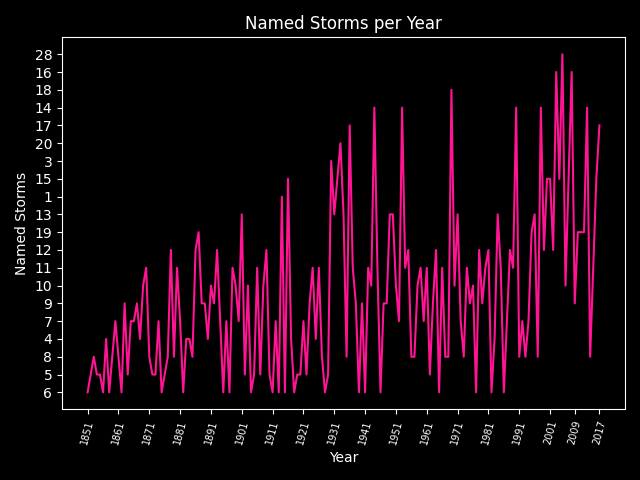
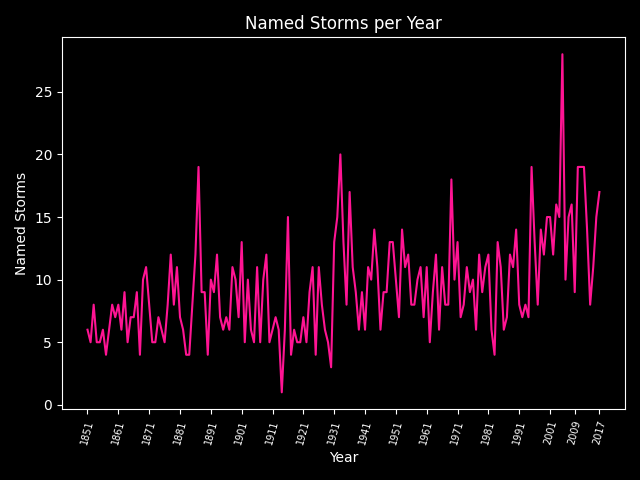
update from strings to integers! :)

diff --git a/hurricanes.py b/hurricanes.py
@@ -39,7 +39,9 @@ class StormData:
         #define attributes
         headers = []
         # self.data = []
-        self.dictData = {} #should i have it as a dictionary? or a list? then i can utilize the class data similar to autompg.
+        self.dictData = {}
+        # self.dictHurr = {}
+        # self.dictMaj = {}
         # define algorithm for correct data pull
         singles = [0, 1, 2, 3, 4, 5, 6, 7, 8, 9, 10, 11, 12, 13, 14, 15, 16, 17, 20, 21, 22, 23, 24, 25, 26, 28, 30, 31, 32, 33, 34, 37, 38, 39, 41, 43, 44, 45, 46, 49, 51, 53, 54, 56, 59, 60, 61, 62, 63, 64, 66, 67, 68, 69, 70, 71, 72, 74, 76, 77, 78, 79, 84, 87, 88, 89, 90, 95, 96, 97, 101, 105, 106, 109, 111, 112, 114, 116, 117, 121, 122, 124, 126, 128, 131, 132, 135, 136, 140, 141, 142, 143, 146, 158, 163]
         doubSing = [18, 29, 40, 47, 48, 50, 52, 55, 57, 58, 73, 75, 80, 81, 83, 85, 86, 91, 92, 93, 94, 98, 100, 102, 103, 104, 107, 108, 110, 113, 115, 119, 120, 123, 125, 127, 129, 130, 133, 134, 137, 138, 139, 145, 148, 149, 150, 151, 152, 153, 155, 156, 157, 160, 162, 164, 165]
@@ -67,6 +69,7 @@ class StormData:
                         majhurricane = dat[6:]
 
                         self.dictData[year]=(nameStorm, hurricane, majhurricane)
+                        # self.dictHurr[year]=hurricane
                         # self.data.append(Storm(year, nameStorm, hurricane, majhurricane))
                     # double - single algorithm
                     elif idx in doubSing:
@@ -98,10 +101,11 @@ class StormData:
         self.maj = []
 
         for i in self.dictData.values():
-            self.named.append(i[0])
-            self.hurr.append(i[1])
-            self.maj.append(i[2])
+            self.named.append(int(i[0]))
+            self.hurr.append(int(i[1]))
+            self.maj.append(int(i[2]))
             
+
         plt.style.use('dark_background')
         plt.plot(self.yrs, self.named, color='deeppink')
         plt.title('Named Storms per Year', color='white')
@@ -112,19 +116,19 @@ class StormData:
         plt.show()
         plt.savefig('stormsperyear')
 
-    def graphHurricanes(self):
+    # def graphHurricanes(self):
 
-        plt.style.use('dark_background')
-        plt.bar(self.yrs, self.hurr, color='green')
-        plt.bar(self.yrs, self,maj, bottom=self.hurr, color='red')
-        plt.title('Hurricanes per Year', color='white')
-        plt.xlabel('Year', color='white')
-        plt.ylabel('Named Storms', color='white')
-        plt.xticks([0, 10, 20, 30, 40, 50, 60, 70, 80, 90, 100, 110, 120, 130, 140, 150, 158, 166], rotation=75, fontsize=7)
-        plt.yticks(fontsize=7)
-        plt.tight_layout()
-        plt.show()
-        plt.savefig('hurricanes_majperyear')
+    #     plt.style.use('dark_background')
+    #     plt.bar(self.yrs, self.hurr, color='green')
+    #     plt.bar(self.yrs, self,maj, bottom=self.hurr, color='red')
+    #     plt.title('Hurricanes per Year', color='white')
+    #     plt.xlabel('Year', color='white')
+    #     plt.ylabel('Named Storms', color='white')
+    #     plt.xticks([0, 10, 20, 30, 40, 50, 60, 70, 80, 90, 100, 110, 120, 130, 140, 150, 158, 166], rotation=75, fontsize=7)
+    #     plt.yticks(fontsize=7)
+    #     plt.tight_layout()
+    #     plt.show()
+    #     plt.savefig('hurricanes_majperyear')
 
 
 # pretend main
